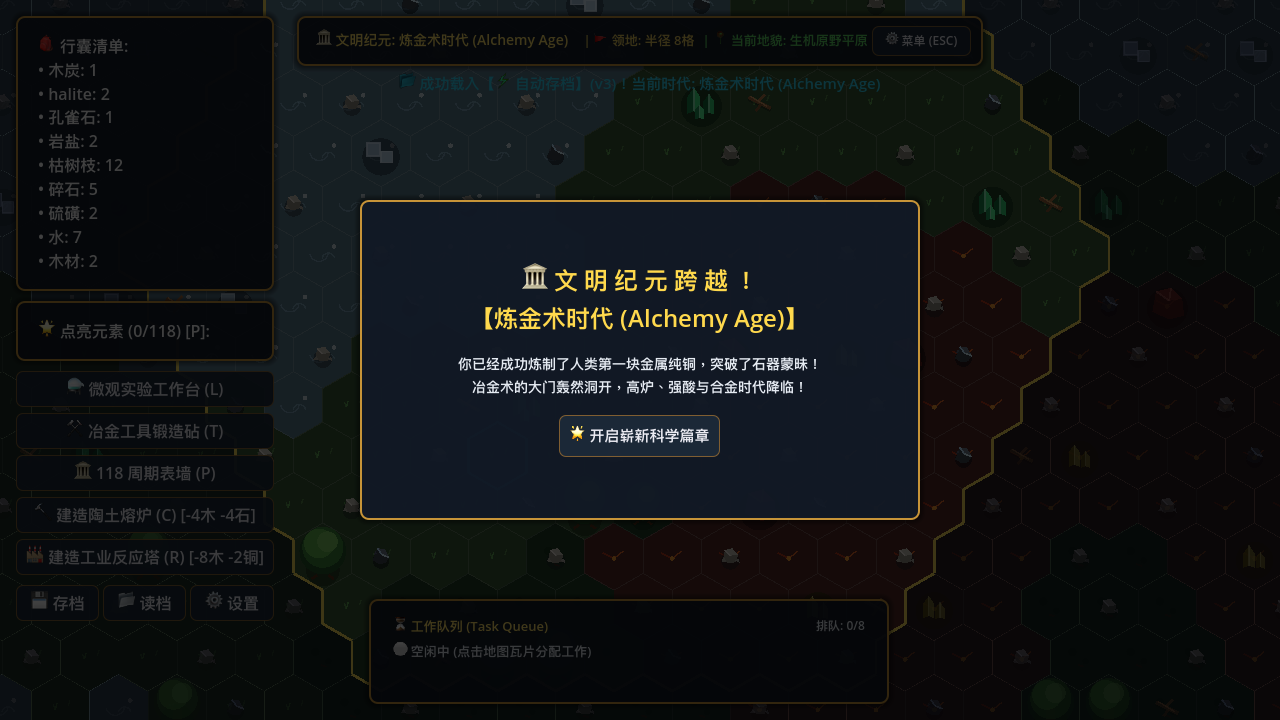
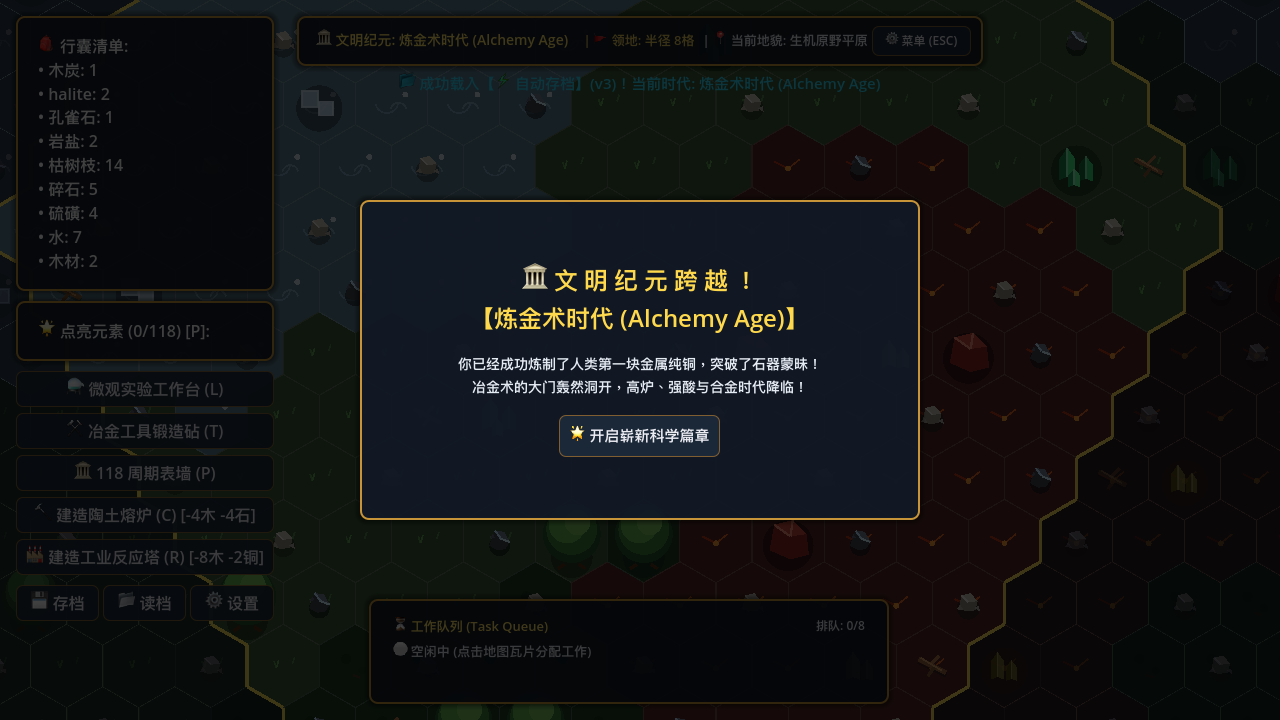
feat(lab): obtain charcoal via experimental dry distillation instead of tool crafting

diff --git a/AGENTS.md b/AGENTS.md
@@ -69,10 +69,9 @@
 - **HUD 实时群系指示**：顶部栏根据当前鼠标悬停/视野中心动态显示地貌（如 `📍 当前地貌: 生机原野平原`）。
 
 ### 2.5 原始手工与冶金工具制造 (Tool Crafting)
-- 按 **`C`** 或点击左侧按钮呼出随身工具工坊：
+- 按 **`C`** 或点击左侧按钮呼出随身工具工坊（专用于工具制造，木炭等化学产物回归实验系统）：
   - **原始燧石斧**：消耗断枝 x2 + 燧石/碎石 x2，装备后获得砍树能力并将伐木耗时减半。
   - **粗制石镐**：消耗断枝 x3 + 碎石/燧石 x3，装备后解锁硬矿挖掘。
-  - **原始火塘干馏**：原木 x2 $\rightarrow$ 木炭 x2，为熔炉冶炼提供燃料。
   - **纯铜地质镐**：铜单质 x2 + 原木 x2，采矿耗时大幅减半。
   - **精钢地质重锤**：铁单质 x2 + 原木 x2，极速凿矿（耗时低至 1.2s）。
 
@@ -82,7 +81,10 @@
 - **工业连续反应塔**：按 **`R`** 建造，点击塔身插装实验台导出的芯片蓝图，全自动连续流生产。
 
 ### 2.7 微观化学实验台与元素周期表 (Micro-Lab & Periodic Table)
-- 按 **`L`** 打开微观实验工作台：自由拼装原料试剂，点燃酒精灯，实时观察唯象变色沉淀动画，导出工业蓝图芯片。
+- 按 **`L`** 打开微观实验工作台：
+  - **化学反应获得木炭**：注入原木（`wood`），点燃酒精灯升温至 500K 以上隔绝空气热解干馏，成功制取【木炭】与副产物，点击「📥 收获烧瓶产物至背包」即可提取木炭入库。
+  - **工艺固化与自动化**：烧瓶制出木炭后可点击导出【工业木材干馏制炭】芯片蓝图，插装入工业反应塔实现无人值守自动化量产。
+  - **冶金与元素发现**：调配孔雀石与木炭炼铜、赤铁矿炼铁，观察唯象变色沉淀动画，导出工业蓝图芯片。
 - 按 **`P`** 呼出 118 全元素周期表圣殿，已提纯点亮的元素高亮发光。
 - 6 大文明时代演进，突破关键节点触发全屏跨越庆典。
 
